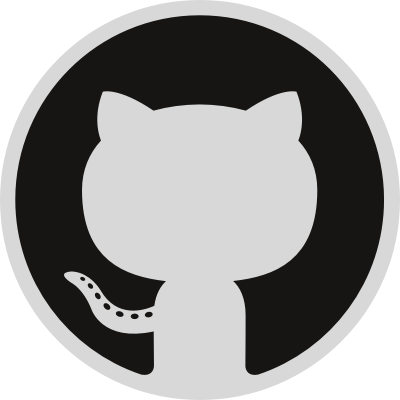
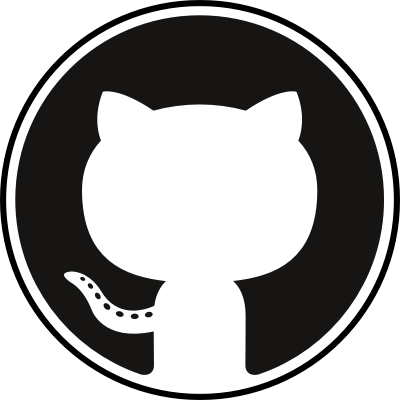
adding more images

diff --git a/presentations/get-signed-up-with-github/slides.md b/presentations/get-signed-up-with-github/slides.md
@@ -1,15 +1,127 @@
 ---
-layout: cover
+theme: unicorn
+colorSchema: 'light'
+
+defaults:
+    website: 'jimbobbennett.dev'
+    handle: 'jimbobbennett'
+    logoHeader: ''
+
+layout: intro
+introImage: 'https://jimbobbennett.dev/images/png/jim-portrait-circle.png'
 ---
 
-# Slidev
+# Get signed up with GitHub
 
-This is the cover page.
+By: "Name"
+
+
+<!-- 
+Hi, I am name.
+
+I'm here to guide you through the process of getting signed up for GitHub, and installing all the tools we will be using throughout this 2 day event.
+
+-->
 
 ---
-layout: cover
+
+# What you will need
+
+
+<div class="grid grid-cols-3 gap-48">
+<div v-click="1">
+
+### GitHub
+
+<br>
+<br>
+<br>
+
+![](https://github.com/open-source-bootcamp/bootcamp-guide/blob/main/presentations/get-signed-up-with-github/github.png?raw=true)
+</div>
+<div v-click="2">
+
+### GitHub Desktop
+
+<br>
+<br>
+<br>
+
+![](https://github.com/open-source-bootcamp/bootcamp-guide/blob/main/presentations/get-signed-up-with-github/github-desktop.png?raw=true)
+</div>
+<div v-click="3">
+
+### VS Code
+
+<br>
+<br>
+<br>
+
+![](https://github.com/open-source-bootcamp/bootcamp-guide/blob/main/presentations/get-signed-up-with-github/vscode.png?raw=true)
+</div>
+</div>
+
+<!--
+
+To complete this event, you will need 3 things:
+
+A GitHub account
+GitHub desktop
+Visual Studio code
+
+You can use other tools instead of GitHub desktop (such as the command line), and other editors instead of VS Code, but you should only use thee if you know what you are doing. This event will focus on GitHub, GitHub desktop and VS Code
+
+
+-->
+
+---
+layout: intro
+introImage: 'https://github.com/open-source-bootcamp/bootcamp-guide/blob/main/presentations/get-signed-up-with-github/github.png?raw=true'
 ---
 
-# Slidev2
+# GitHub
 
-This is the second page.
+[GitHub.com/signup](https://github.com/signup)
+
+<!--
+
+When developers build software, it is good practice to use a version control system. This is a tool where developers can store and share code, tracking all the different versions of each code file. These can be run privately, or in the cloud.
+
+GitHub is an online code repository running in the cloud. It's where millions of developers store and share their code, and where they collaborate to build software.
+
+Code is stores in repositories, often shortened to repos. These are code stores that one or more developers has access to, and they store a full versioned history of the code changes made over time.
+
+GitHub is popular with open source projects. This is code that is built in the open with communities of people coming together to define the project and build software.
+
+To work with the majority of open source projects, you will need a GitHub account. The next few steps show you the process to get signed up with GitHub. You can sign up for free, and for contributing to open source or storing your own code it is completely free.
+
+Start by heading to github.com/signup
+
+-->
+
+---
+layout: image-center
+image: github-signup-1.png
+---
+
+---
+layout: image-center
+image: github-signup-2.png
+---
+
+---
+layout: image-center
+image: github-signup-3.png
+---
+
+---
+layout: image-center
+image: github-signup-4.png
+---
+
+---
+layout: image-center
+image: github-signup-5.png
+---
+
+---
